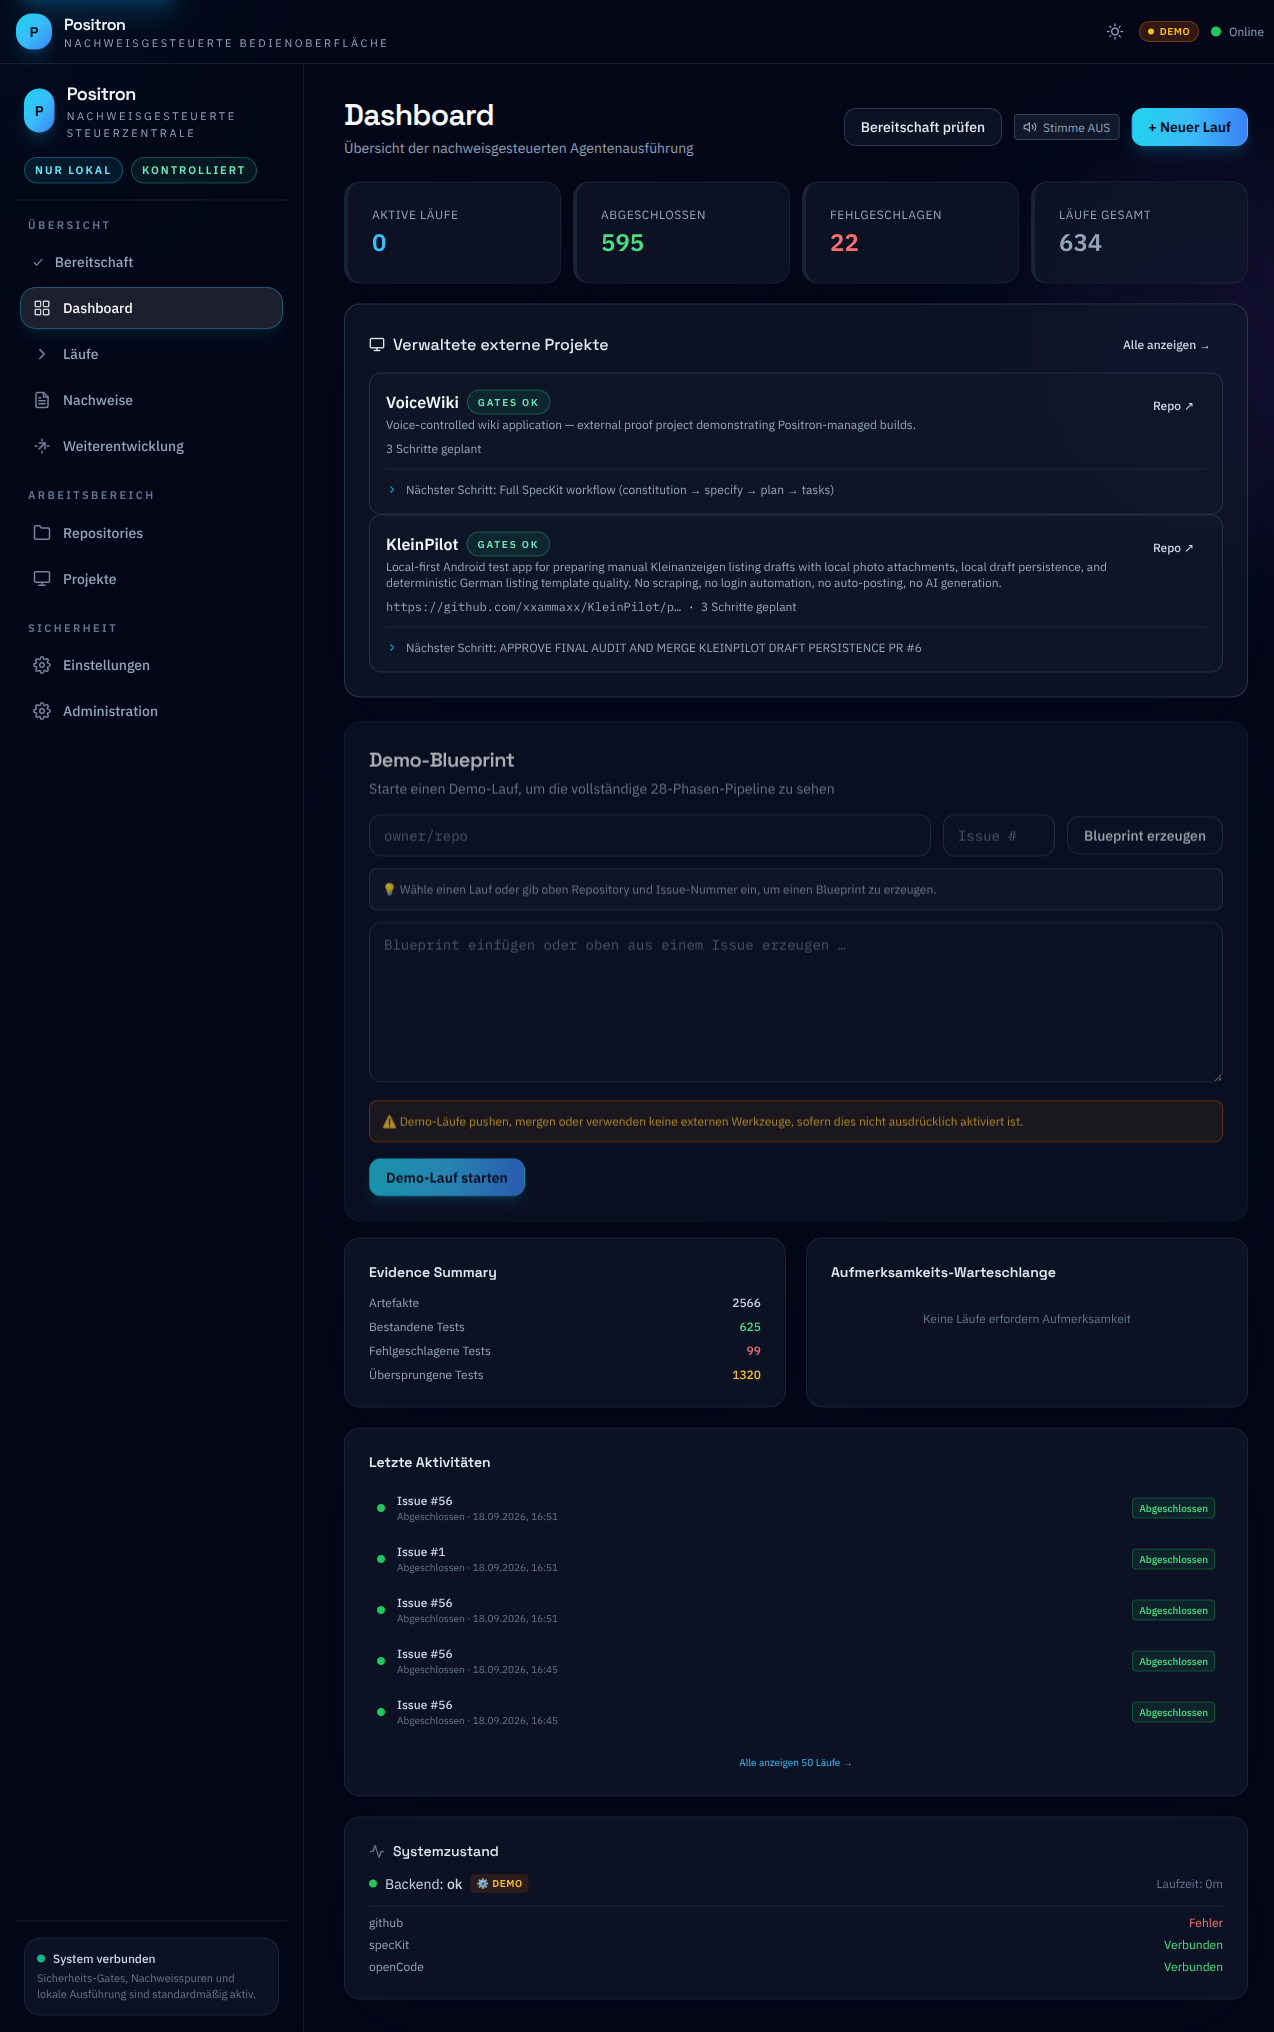
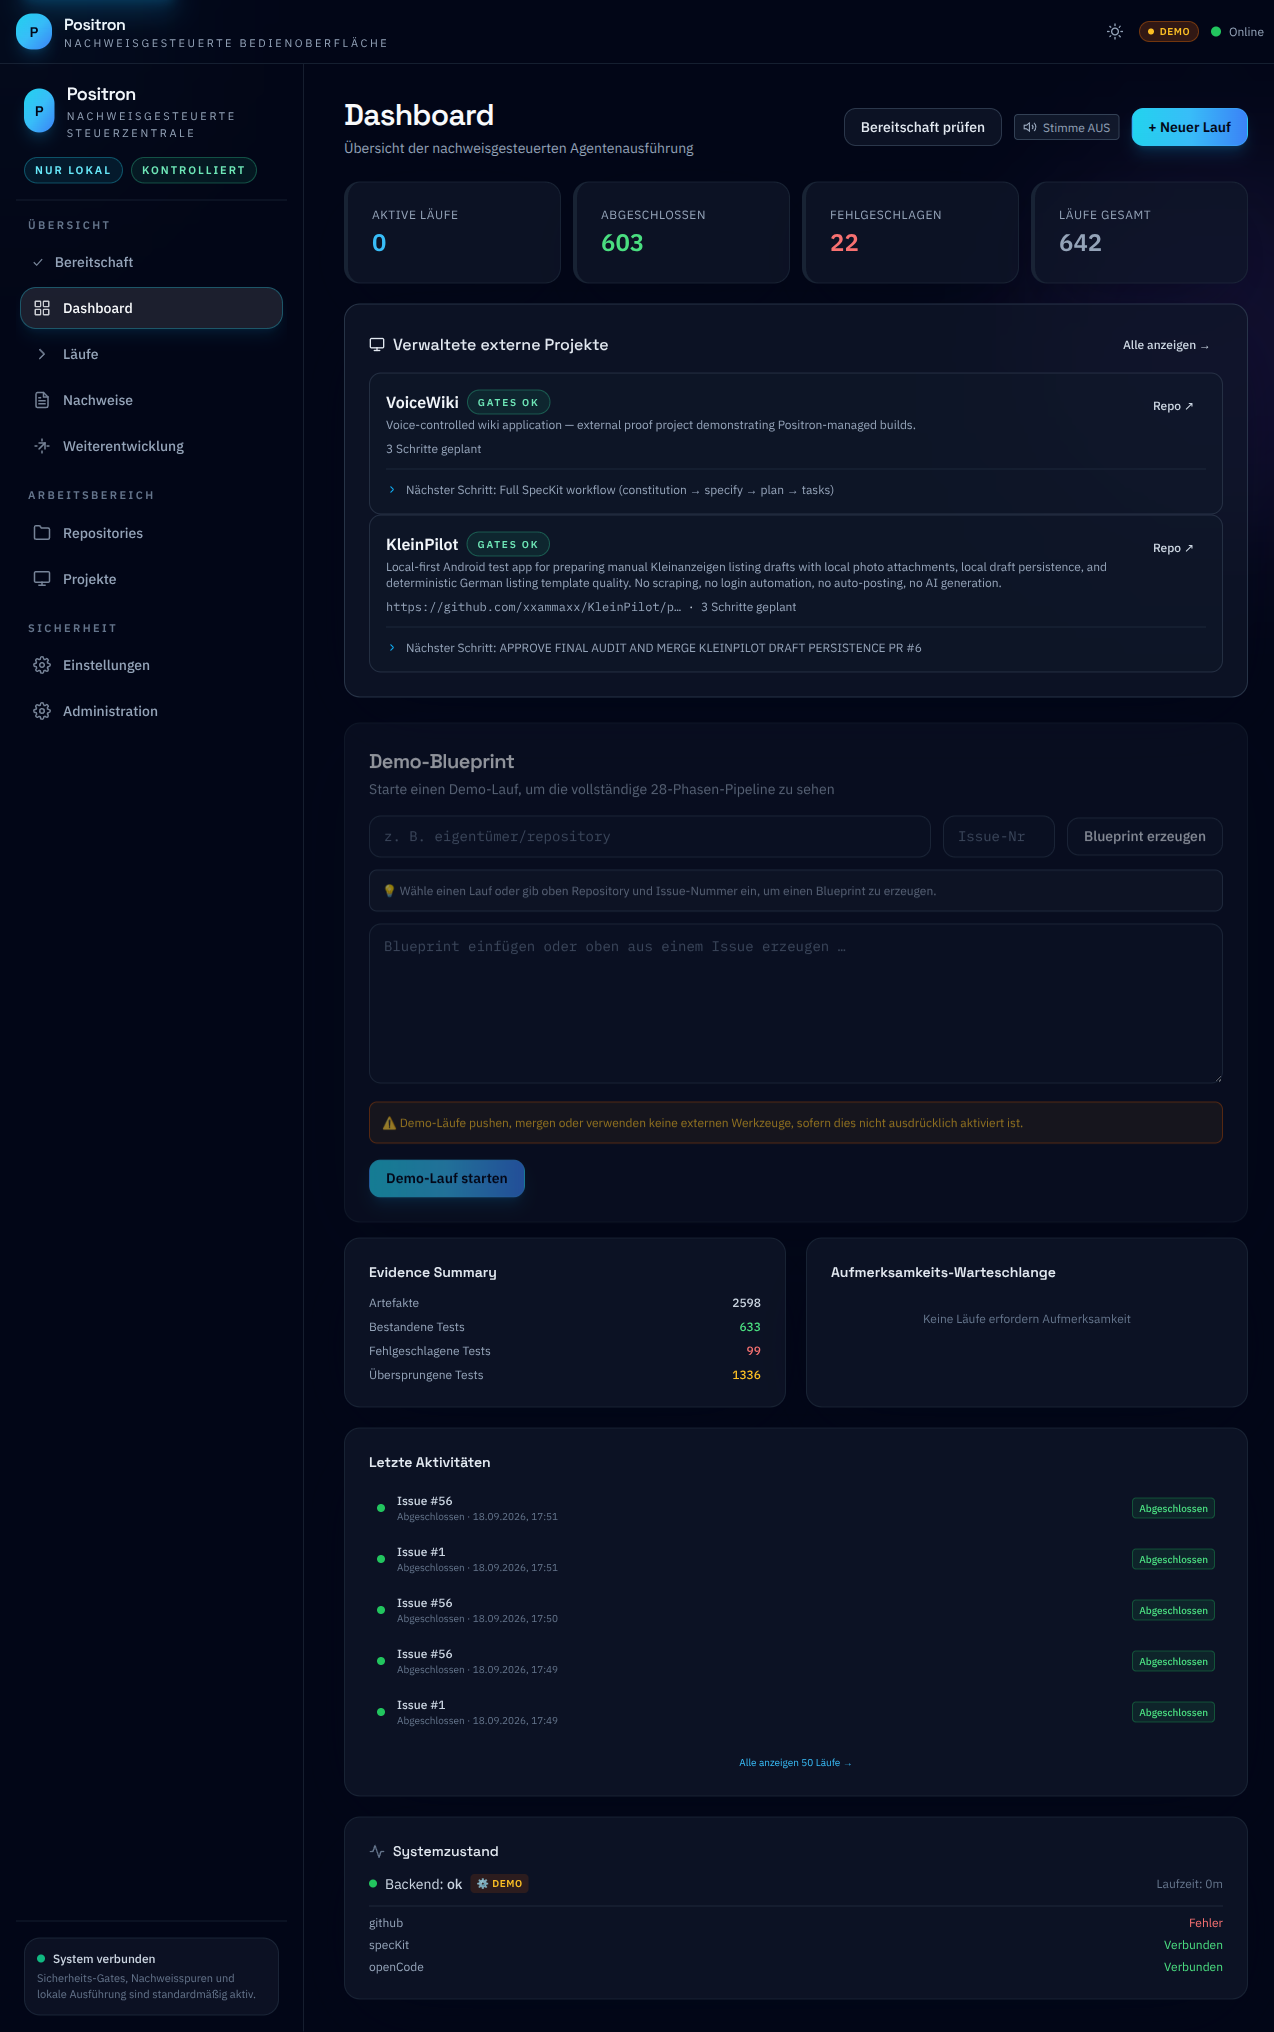
fix(issue-495): harden real E2E and German accessibility

diff --git a/apps/web/src/__tests__/EvidencePage-accessibility.test.tsx b/apps/web/src/__tests__/EvidencePage-accessibility.test.tsx
@@ -58,7 +58,7 @@ describe('EvidencePage — E17 Native Expand/Collapse Button', () => {
 		});
 
 		const buttons = screen.getAllByRole('button', {
-			name: /expand evidence/i,
+			name: /ausklappen nachweise/i,
 		});
 		expect(buttons).toHaveLength(2);
 
@@ -81,8 +81,8 @@ describe('EvidencePage — E17 Native Expand/Collapse Button', () => {
 			expect(screen.getByText('All unit tests passed')).toBeDefined();
 		});
 
-		expect(screen.getByRole('button', { name: /expand evidence ev-test-001/i })).toBeDefined();
-		expect(screen.getByRole('button', { name: /expand evidence ev-test-002/i })).toBeDefined();
+		expect(screen.getByRole('button', { name: /ausklappen nachweise ev-test-001/i })).toBeDefined();
+		expect(screen.getByRole('button', { name: /ausklappen nachweise ev-test-002/i })).toBeDefined();
 	});
 
 	test('clicking expand sets aria-expanded=true and shows detail', async () => {
@@ -98,7 +98,7 @@ describe('EvidencePage — E17 Native Expand/Collapse Button', () => {
 		});
 
 		const btn = screen.getByRole('button', {
-			name: /expand evidence ev-test-001/i,
+			name: /ausklappen nachweise ev-test-001/i,
 		});
 		expect(btn.getAttribute('aria-expanded')).toBe('false');
 
@@ -108,7 +108,7 @@ describe('EvidencePage — E17 Native Expand/Collapse Button', () => {
 
 		expect(
 			screen.getByRole('button', {
-				name: /collapse evidence ev-test-001/i,
+				name: /einklappen nachweise ev-test-001/i,
 			}),
 		).toBeDefined();
 
@@ -132,7 +132,7 @@ describe('EvidencePage — E17 Native Expand/Collapse Button', () => {
 		});
 
 		const btn = screen.getByRole('button', {
-			name: /expand evidence ev-test-001/i,
+			name: /ausklappen nachweise ev-test-001/i,
 		});
 
 		fireEvent.click(btn);
@@ -155,10 +155,10 @@ describe('EvidencePage — E17 Native Expand/Collapse Button', () => {
 		});
 
 		const btn1 = screen.getByRole('button', {
-			name: /expand evidence ev-test-001/i,
+			name: /ausklappen nachweise ev-test-001/i,
 		});
 		const btn2 = screen.getByRole('button', {
-			name: /expand evidence ev-test-002/i,
+			name: /ausklappen nachweise ev-test-002/i,
 		});
 
 		fireEvent.click(btn1);
@@ -208,7 +208,7 @@ describe('EvidencePage — E17 Native Expand/Collapse Button', () => {
 		fireEvent.click(summaryCell);
 
 		const btn = screen.getByRole('button', {
-			name: /expand evidence ev-test-001/i,
+			name: /ausklappen nachweise ev-test-001/i,
 		});
 		expect(btn.getAttribute('aria-expanded')).toBe('false');
 	});
@@ -236,7 +236,7 @@ describe('EvidencePage — E17 Native Expand/Collapse Button', () => {
 		// Clicking the link should not expand the row
 		fireEvent.click(runLink);
 		const expandBtn = screen.getByRole('button', {
-			name: /expand evidence ev-test-001/i,
+			name: /ausklappen nachweise ev-test-001/i,
 		});
 		expect(expandBtn.getAttribute('aria-expanded')).toBe('false');
 	});

diff --git a/apps/web/src/components/dashboard/BlueprintPanel.tsx b/apps/web/src/components/dashboard/BlueprintPanel.tsx
@@ -22,13 +22,13 @@ export default function BlueprintPanel(): React.ReactElement {
 		const issueNum = Number.parseInt(issueNumber.trim(), 10);
 
 		if (!trimmedRepo || Number.isNaN(issueNum) || issueNum < 1) {
-			setError('Gültiges Repository (owner/repo) und eine Issue-Nummer eingeben');
+			setError(t('Enter a valid repository and issue number'));
 			return;
 		}
 
 		const parts = trimmedRepo.split('/');
 		if (parts.length !== 2 || !parts[0] || !parts[1]) {
-			setError('Repository muss das Format owner/repo haben');
+			setError(t('Repository format error'));
 			return;
 		}
 
@@ -39,7 +39,7 @@ export default function BlueprintPanel(): React.ReactElement {
 			const result = await api.getBlueprint(parts[0], parts[1], issueNum);
 			setBlueprint(result.blueprint);
 		} catch (err) {
-			setError(err instanceof Error ? err.message : 'Blueprint konnte nicht erzeugt werden');
+			setError(err instanceof Error ? err.message : t('Blueprint generation failed'));
 		} finally {
 			setIsFetching(false);
 		}
@@ -54,7 +54,7 @@ export default function BlueprintPanel(): React.ReactElement {
 			// Navigate to run detail after short delay
 			setTimeout(() => navigate(`/runs/${result.run.id}`), 800);
 		} catch (err) {
-			setError(err instanceof Error ? err.message : 'Demo-Lauf konnte nicht gestartet werden');
+			setError(err instanceof Error ? err.message : t('Demo run could not be started'));
 		} finally {
 			setIsLoading(false);
 		}
@@ -82,15 +82,15 @@ export default function BlueprintPanel(): React.ReactElement {
 					type="text"
 					value={repoId}
 					onChange={(e) => setRepoId(e.target.value)}
-					placeholder="owner/repo"
+					placeholder="z. B. eigentümer/repository"
 					className="input flex-1 text-sm font-['IBM_Plex_Mono']"
-					aria-label="Repository (owner/repo)"
+					aria-label={t('Repository identifier')}
 				/>
 				<input
 					type="number"
 					value={issueNumber}
 					onChange={(e) => setIssueNumber(e.target.value)}
-					placeholder="Issue #"
+					placeholder="Issue-Nr."
 					className="input w-28 text-sm font-['IBM_Plex_Mono']"
 					min="1"
 					aria-label="Issue-Nummer"
@@ -116,7 +116,7 @@ export default function BlueprintPanel(): React.ReactElement {
 				onChange={(e) => setBlueprint(e.target.value)}
 				placeholder="Blueprint einfügen oder oben aus einem Issue erzeugen …"
 				className="input min-h-[160px] resize-y font-['IBM_Plex_Mono'] text-sm leading-relaxed"
-				aria-label="Blueprint text"
+				aria-label={t('Blueprint text')}
 			/>
 
 			{/* Demo Warning */}

diff --git a/apps/worker/src/index.ts b/apps/worker/src/index.ts
@@ -248,10 +248,18 @@ const worker = new Worker<PipelineJobData, PipelineJobResult>(
 			throw schedErr;
 		}
 
-		// Load run from DB
-		const row = db.prepare('SELECT * FROM runs WHERE id = ?').get(runId) as
-			| Record<string, unknown>
-			| undefined;
+		// The API persists the run immediately before enqueueing, but SQLite and
+		// BullMQ are separate durability boundaries. On a cold start or a busy
+		// scheduler tick the worker can observe the queue job before the run row
+		// becomes visible. Briefly retry the read instead of permanently failing
+		// a valid productive job as "run not found".
+		let row: Record<string, unknown> | undefined;
+		for (let attempt = 0; attempt < 20 && !row; attempt += 1) {
+			row = db.prepare('SELECT * FROM runs WHERE id = ?').get(runId) as
+				| Record<string, unknown>
+				| undefined;
+			if (!row && attempt < 19) await new Promise((resolve) => setTimeout(resolve, 250));
+		}
 		if (!row) throw new Error(`Run ${runId} not found in database`);
 
 		const { parsePhase, parseRunStatus } = await import('@positron/shared');

diff --git a/e2e/workflow-proof.spec.ts b/e2e/workflow-proof.spec.ts
@@ -145,7 +145,7 @@ test.describe
 
 			// Fill repo and issue inputs for dynamic blueprint generation
 			// UI was refactored: "Load Mini Blueprint" → "Generate Blueprint" + inputs
-			await page.getByLabel('Repository (owner/repo)').fill('test-owner/test-repo');
+			await page.getByLabel('Repository (Eigentümer/Repository)').fill('test-owner/test-repo');
 			await page.getByLabel('Issue-Nummer').fill('1');
 
 			// Click "Generate Blueprint" to fetch the blueprint from the API
@@ -178,7 +178,7 @@ test.describe
 			});
 
 			// Generate blueprint first (updated for new UI flow)
-			await page.getByLabel('Repository (owner/repo)').fill('test-owner/test-repo');
+			await page.getByLabel('Repository (Eigentümer/Repository)').fill('test-owner/test-repo');
 			await page.getByLabel('Issue-Nummer').fill('1');
 				await page.getByRole('button', { name: /Blueprint erzeugen/i }).click();
 			await expect

diff --git a/apps/web/src/i18n/de-DE.ts b/apps/web/src/i18n/de-DE.ts
@@ -101,6 +101,14 @@ export const messages = {
 	'Creating...': 'Wird erstellt …',
 	'Generate Blueprint': 'Blueprint erzeugen',
 	'Blueprint text': 'Blueprint-Text',
+	'Enter a valid repository and issue number': 'Gültiges Repository und eine Issue-Nummer eingeben',
+	'Repository format error': 'Das Repository muss das Format Eigentümer/Repository haben',
+	'Blueprint generation failed': 'Blueprint konnte nicht erzeugt werden',
+	'Demo run could not be started': 'Demo-Lauf konnte nicht gestartet werden',
+	'Repository identifier': 'Repository (Eigentümer/Repository)',
+	'Copy full': 'Vollständigen Wert kopieren:',
+	'Fingerprint': 'Fingerabdruck',
+	'Copy': 'Kopieren',
 	'Add Repository': 'Repository hinzufügen',
 	Open: 'Öffnen',
 	Details: 'Details',

diff --git a/apps/web/src/components/evidence/EvidencePage.tsx b/apps/web/src/components/evidence/EvidencePage.tsx
@@ -307,7 +307,7 @@ export default function EvidencePage(): React.ReactElement {
 															type="button"
 															aria-expanded={expanded}
 															aria-controls={detailId}
-															aria-label={`${expanded ? 'Collapse' : 'Expand'} evidence ${item.id}`}
+										aria-label={`${expanded ? t('Collapse') : t('Expand')} ${t('Evidence')} ${item.id}`}
 															onClick={() => setExpandedId(expanded ? null : item.id)}
 															className="text-slate-500 dark:text-slate-400 hover:text-slate-700 dark:hover:text-slate-200 transition-colors"
 														>

diff --git a/e2e/ui-workflow-trace.spec.ts b/e2e/ui-workflow-trace.spec.ts
@@ -99,7 +99,7 @@ test.describe('UI Workflow Trace & Network Proof', () => {
 			await test.step('S03: Load demo blueprint', async () => {
 				await expect(page.getByText('Demo-Blueprint')).toBeVisible({ timeout: 10_000 });
 
-				await page.getByLabel('Repository (owner/repo)').fill('test-owner/test-repo');
+				await page.getByLabel('Repository (Eigentümer/Repository)').fill('test-owner/test-repo');
 				await page.getByLabel('Issue-Nummer').fill('1');
 
 				const generateBtn = page.getByRole('button', { name: /Blueprint erzeugen/i });

diff --git a/playwright.real.config.ts b/playwright.real.config.ts
@@ -14,7 +14,10 @@ export default defineConfig({
 	fullyParallel: false,
 	workers: 1,
 	retries: 0,
-	reporter: 'html',
+	// A failed real run must terminate so the runner can clean up Redis,
+	// worker, server and Vite. Playwright's default HTML reporter opens a
+	// long-lived report server on failure and otherwise leaks the runtime.
+	reporter: [['html', { open: 'never' }]],
 	use: {
 		...devices['Desktop Chrome'],
 		baseURL: `http://localhost:${process.env.REAL_E2E_WEB_PORT ?? '46201'}`,

diff --git a/e2e/diagnostic-reality-check.spec.ts b/e2e/diagnostic-reality-check.spec.ts
@@ -187,7 +187,7 @@ test.describe('Positron Reality Check', () => {
 
 		// Try to start a demo run using the Blueprint panel
 		// First, enter a repo ID and issue number
-		const repoInput = page.getByLabel('Repository (owner/repo)');
+		const repoInput = page.getByLabel('Repository (Eigentümer/Repository)');
 		const issueInput = page.getByLabel('Issue-Nummer');
 		const demoRunBtn = page.getByRole('button', { name: /Demo-Lauf starten/i });
 

diff --git a/apps/web/src/__tests__/BlueprintPanel.test.tsx b/apps/web/src/__tests__/BlueprintPanel.test.tsx
@@ -112,7 +112,7 @@ describe('BlueprintPanel', () => {
 				<BlueprintPanel />
 			</MemoryRouter>,
 		);
-		expect(screen.getByPlaceholderText('owner/repo')).toBeDefined();
-		expect(screen.getByPlaceholderText('Issue #')).toBeDefined();
+		expect(screen.getByPlaceholderText('z. B. eigentümer/repository')).toBeDefined();
+		expect(screen.getByPlaceholderText('Issue-Nr.')).toBeDefined();
 	});
 });

diff --git a/apps/web/src/components/mission/MissionControlPanel.tsx b/apps/web/src/components/mission/MissionControlPanel.tsx
@@ -150,9 +150,9 @@ function FingerprintValue({
 				onClick={() => {
 					navigator.clipboard.writeText(value).catch(() => undefined);
 				}}
-				aria-label={`Copy full ${label} fingerprint`}
+				aria-label={`${t('Copy full')} ${label} ${t('Fingerprint')}`}
 			>
-				copy
+				{t('Copy')}
 			</button>
 		</span>
 	);

diff --git a/docs/qa-tooling.md b/docs/qa-tooling.md
@@ -17,8 +17,9 @@ test:e2e` command is the deterministic layer and is explicitly configured with
 
 The real path is fail-closed and requires all of
 `POSITRON_GITHUB_MODE=real`, `POSITRON_OPENCODE_MODE=real`,
-`POSITRON_SPECKIT_MODE=real`, `POSITRON_DISABLE_QUEUE=false`, a configured
-workspace/repository/Issue, Redis and an OpenCode model:
+`POSITRON_SPECKIT_MODE=real`, `POSITRON_DISABLE_QUEUE=false`,
+`POSITRON_OPENCODE_AUTO=true`, a configured workspace/repository/Issue, Redis
+and an OpenCode model:
 
 ```bash
 npm run build
